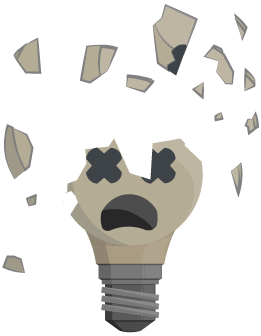
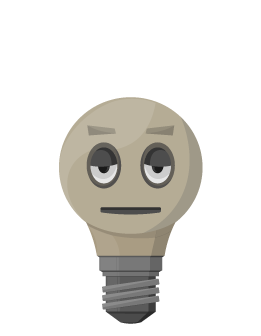
rename lamps

diff --git a/core/src/com/pocket/rocket/broken/AssetLoader.java b/core/src/com/pocket/rocket/broken/AssetLoader.java
@@ -28,9 +28,9 @@ public class AssetLoader implements Disposable {
     public static final int LAMPS_PREFIX_2 = 2;
     public static final int LAMPS_PREFIX_3 = 3;
 
-    private static final String TURN_ON = "lamps/%s/turn_on.png";
-    private static final String TURN_OFF = "lamps/%s/turn_off.png";
+    private static final String ANGRY = "lamps/%s/angry.png";
     private static final String NEUTRAL = "lamps/%s/neutral.png";
+    private static final String ACTIVE = "lamps/%s/active.png";
 
     private static final String FONT = "font.fnt";
     private static final String BUTTON_UP = "button_up.png";
@@ -81,7 +81,7 @@ public class AssetLoader implements Disposable {
         background = backgrounds.get(MathUtils.random(0, backgrounds.size() - 1));
         assetManager.load(background, Texture.class);
 
-        assetManager.load(getLampPath(LAMPS_PREFIX_0, TURN_ON), Texture.class);
+        assetManager.load(getLampPath(LAMPS_PREFIX_0, ACTIVE), Texture.class);
         loadLamps(LAMPS_PREFIX_1);
         loadLamps(LAMPS_PREFIX_2);
         loadLamps(LAMPS_PREFIX_3);
@@ -134,9 +134,9 @@ public class AssetLoader implements Disposable {
     }
 
     private static void loadLamps(int prefix) {
-        assetManager.load(getLampPath(prefix, TURN_ON), Texture.class);
-        assetManager.load(getLampPath(prefix, TURN_OFF), Texture.class);
+        assetManager.load(getLampPath(prefix, ANGRY), Texture.class);
         assetManager.load(getLampPath(prefix, NEUTRAL), Texture.class);
+        assetManager.load(getLampPath(prefix, ACTIVE), Texture.class);
     }
 
     private static String getLampPath(int prefix, String fileName) {
@@ -188,19 +188,19 @@ public class AssetLoader implements Disposable {
     }
 
     public static Texture getLampImage(int prefix) {
-        return assetManager.get(getLampPath(prefix, TURN_ON));
+        return assetManager.get(getLampPath(prefix, ANGRY));
     }
 
     public static Texture getLampImage(LightBulbStatus status) {
         switch (status) {
-            case TURN_ON:
-                return turnOn();
-            case TURN_OFF:
-                return turnOff();
+            case ANGRY:
+                return angry();
             case NEUTRAL:
                 return neutral();
+            case ACTIVE:
+                return active();
             default:
-                return turnOff();
+                return neutral();
         }
     }
 
@@ -212,16 +212,16 @@ public class AssetLoader implements Disposable {
         defaultPrefix = prefix == LAMPS_PREFIX_0 ? LAMPS_PREFIX_1 : prefix;
     }
 
-    private static Texture turnOn() {
-        return assetManager.get(getLampPath(defaultPrefix, TURN_ON));
-    }
-
-    private static Texture turnOff() {
-        return assetManager.get(getLampPath(defaultPrefix, TURN_OFF));
+    private static Texture angry() {
+        return assetManager.get(getLampPath(defaultPrefix, ANGRY));
     }
 
     private static Texture neutral() {
         return assetManager.get(getLampPath(defaultPrefix, NEUTRAL));
+    }
+
+    private static Texture active() {
+        return assetManager.get(getLampPath(defaultPrefix, ACTIVE));
     }
 
     public static Texture getLogoLabel() {

diff --git a/core/src/com/pocket/rocket/broken/actors/LightBulb.java b/core/src/com/pocket/rocket/broken/actors/LightBulb.java
@@ -8,12 +8,12 @@ import static com.badlogic.gdx.math.MathUtils.random;
 import static com.pocket.rocket.broken.AssetLoader.getLampImage;
 import static com.pocket.rocket.broken.Constants.LAMP_HEIGHT;
 import static com.pocket.rocket.broken.Constants.LAMP_WIDTH;
+import static com.pocket.rocket.broken.enums.LightBulbStatus.ACTIVE;
+import static com.pocket.rocket.broken.enums.LightBulbStatus.ANGRY;
 import static com.pocket.rocket.broken.enums.LightBulbStatus.NEUTRAL;
-import static com.pocket.rocket.broken.enums.LightBulbStatus.TURN_OFF;
-import static com.pocket.rocket.broken.enums.LightBulbStatus.TURN_ON;
 
 public class LightBulb extends ImageActor {
-    private static final LightBulbStatus DEFAULT_STATUS = TURN_OFF;
+    private static final LightBulbStatus DEFAULT_STATUS = NEUTRAL;
 
     private LightBulbStatus status = DEFAULT_STATUS;
     private float activationTime = 0;
@@ -25,8 +25,8 @@ public class LightBulb extends ImageActor {
     }
 
     public boolean justClicked(LampLogic time) {
-        if (status == TURN_ON) {
-            setStatus(NEUTRAL);
+        if (status == ANGRY) {
+            setStatus(ACTIVE);
             activationTime = random(time.maxNeutralTime, time.minNeutralTime);
             turnOffTime = getTurnOffTime(time);
 
@@ -38,10 +38,10 @@ public class LightBulb extends ImageActor {
 
     @Override
     public void act(float delta) {
-        if (activationTime > 0 && (status == TURN_ON || status == NEUTRAL)) {
+        if (activationTime > 0 && (status == ANGRY || status == ACTIVE)) {
 
             if (activationTime <= second) {
-                setStatus(TURN_OFF);
+                setStatus(NEUTRAL);
                 second = 0;
                 activationTime = 0;
             } else {
@@ -51,7 +51,7 @@ public class LightBulb extends ImageActor {
             activationTime = 0;
         }
 
-        if (turnOffTime > 0 && status == TURN_OFF) {
+        if (turnOffTime > 0 && status == NEUTRAL) {
             turnOffTime -= delta;
         }
 
@@ -64,11 +64,11 @@ public class LightBulb extends ImageActor {
     }
 
     public boolean canBeActive() {
-        return status == TURN_OFF && turnOffTime <= 0;
+        return status == NEUTRAL && turnOffTime <= 0;
     }
 
     public void activate(LampLogic time) {
-        setStatus(TURN_ON);
+        setStatus(ANGRY);
         activationTime = random(time.minActiveTime, time.maxActiveTime);
         turnOffTime = getTurnOffTime(time);
     }

diff --git a/core/src/com/pocket/rocket/broken/screens/tutorial/TutorialScreen.java b/core/src/com/pocket/rocket/broken/screens/tutorial/TutorialScreen.java
@@ -23,8 +23,8 @@ import static com.pocket.rocket.broken.Constants.Y_LAMP_POSITION;
 import static com.pocket.rocket.broken.enums.LightBulbPosition.CENTER;
 import static com.pocket.rocket.broken.enums.LightBulbPosition.LEFT;
 import static com.pocket.rocket.broken.enums.LightBulbPosition.RIGHT;
-import static com.pocket.rocket.broken.enums.LightBulbStatus.TURN_OFF;
-import static com.pocket.rocket.broken.enums.LightBulbStatus.TURN_ON;
+import static com.pocket.rocket.broken.enums.LightBulbStatus.ANGRY;
+import static com.pocket.rocket.broken.enums.LightBulbStatus.NEUTRAL;
 import static java.lang.Integer.MAX_VALUE;
 
 public class TutorialScreen extends BaseScreen {
@@ -65,13 +65,13 @@ public class TutorialScreen extends BaseScreen {
     private Group createLamps() {
         Group lightBulbs = new Group();
 
-        lightBulbs.addActor(initializeLight(LEFT, Y_LAMP_POSITION + 300, TURN_OFF));
-        lightBulbs.addActor(initializeLight(CENTER, Y_LAMP_POSITION + 300, TURN_ON));
-        lightBulbs.addActor(initializeLight(RIGHT, Y_LAMP_POSITION + 300, TURN_OFF));
+        lightBulbs.addActor(initializeLight(LEFT, Y_LAMP_POSITION + 300, NEUTRAL));
+        lightBulbs.addActor(initializeLight(CENTER, Y_LAMP_POSITION + 300, ANGRY));
+        lightBulbs.addActor(initializeLight(RIGHT, Y_LAMP_POSITION + 300, NEUTRAL));
 
-        lightBulbs.addActor(initializeLight(LEFT, Y_LAMP_POSITION + LAMP_HEIGHT + 270, TURN_ON));
-        lightBulbs.addActor(initializeLight(CENTER, Y_LAMP_POSITION + LAMP_HEIGHT + 270, TURN_OFF));
-        lightBulbs.addActor(initializeLight(RIGHT, Y_LAMP_POSITION + LAMP_HEIGHT + 270, TURN_ON));
+        lightBulbs.addActor(initializeLight(LEFT, Y_LAMP_POSITION + LAMP_HEIGHT + 270, ANGRY));
+        lightBulbs.addActor(initializeLight(CENTER, Y_LAMP_POSITION + LAMP_HEIGHT + 270, NEUTRAL));
+        lightBulbs.addActor(initializeLight(RIGHT, Y_LAMP_POSITION + LAMP_HEIGHT + 270, ANGRY));
 
         return lightBulbs;
     }

diff --git a/core/src/com/pocket/rocket/broken/screens/tutorial/TutorialLamp.java b/core/src/com/pocket/rocket/broken/screens/tutorial/TutorialLamp.java
@@ -5,8 +5,8 @@ import com.pocket.rocket.broken.enums.LampLogic;
 import com.pocket.rocket.broken.enums.LightBulbPosition;
 import com.pocket.rocket.broken.enums.LightBulbStatus;
 
-import static com.pocket.rocket.broken.enums.LightBulbStatus.NEUTRAL;
-import static com.pocket.rocket.broken.enums.LightBulbStatus.TURN_ON;
+import static com.pocket.rocket.broken.enums.LightBulbStatus.ACTIVE;
+import static com.pocket.rocket.broken.enums.LightBulbStatus.ANGRY;
 
 public class TutorialLamp extends LightBulb {
     private LightBulbStatus currentStatus;
@@ -22,10 +22,10 @@ public class TutorialLamp extends LightBulb {
         setImage(com.pocket.rocket.broken.AssetLoader.getLampImage(status));
         currentStatus = status;
 
-        if (currentStatus == LightBulbStatus.TURN_ON || currentStatus == LightBulbStatus.NEUTRAL) {
-            previousStatus = LightBulbStatus.TURN_OFF;
+        if (currentStatus == LightBulbStatus.ANGRY || currentStatus == LightBulbStatus.ACTIVE) {
+            previousStatus = LightBulbStatus.NEUTRAL;
         } else {
-            previousStatus = LightBulbStatus.TURN_ON;
+            previousStatus = LightBulbStatus.ANGRY;
         }
     }
 
@@ -43,8 +43,8 @@ public class TutorialLamp extends LightBulb {
 
     @Override
     public boolean justClicked(LampLogic time) {
-        if (currentStatus == TURN_ON) {
-            setStatus(NEUTRAL);
+        if (currentStatus == ANGRY) {
+            setStatus(ACTIVE);
             if (clickAction != null) {
                 clickAction.run();
             }

diff --git a/core/src/com/pocket/rocket/broken/screens/tutorial/steps/StepManager.java b/core/src/com/pocket/rocket/broken/screens/tutorial/steps/StepManager.java
@@ -38,7 +38,7 @@ public class StepManager {
 
     private void activateLamp() {
         for (TutorialLamp lamp : lamps) {
-            if (lamp.getCurrentStatus() == LightBulbStatus.TURN_ON) {
+            if (lamp.getCurrentStatus() == LightBulbStatus.ANGRY) {
                 return;
             }
         }
@@ -48,7 +48,7 @@ public class StepManager {
 
     private void manageLamps() {
         for (final TutorialLamp lamp : lamps) {
-            if (lamp.getCurrentStatus() == LightBulbStatus.NEUTRAL) {
+            if (lamp.getCurrentStatus() == LightBulbStatus.ACTIVE) {
                 Timer.schedule(new Timer.Task() {
                                    @Override
                                    public void run() {

diff --git a/core/src/com/pocket/rocket/broken/Main.java b/core/src/com/pocket/rocket/broken/Main.java
@@ -2,7 +2,7 @@ package com.pocket.rocket.broken;
 
 import com.badlogic.gdx.Game;
 import com.pocket.rocket.broken.api.PlayServices;
-import com.pocket.rocket.broken.screens.GameScreen;
+import com.pocket.rocket.broken.screens.SplashScreen;
 
 public class Main extends Game {
     private final PlayServices playServices;
@@ -14,9 +14,9 @@ public class Main extends Game {
 
     @Override
     public void create() {
-        //setScreen(new SplashScreen(this));
-        AssetLoader.initialize();
-        setScreen(new GameScreen(this));
+        setScreen(new SplashScreen(this));
+        //AssetLoader.initialize();
+        //setScreen(new GameScreen(this));
     }
 
     @Override

diff --git a/core/src/com/pocket/rocket/broken/screens/BaseScreen.java b/core/src/com/pocket/rocket/broken/screens/BaseScreen.java
@@ -19,7 +19,7 @@ public class BaseScreen extends Stage implements Screen {
         super(new FitViewport(WIDTH, HEIGHT));
         this.main = main;
         addActor(new ImageActor(0, 0, WIDTH, HEIGHT, getBackGround()));
-        setDebugAll(true);
+        //setDebugAll(true);
         Gdx.input.setInputProcessor(this);
     }
 

diff --git a/core/src/com/pocket/rocket/broken/enums/LightBulbStatus.java b/core/src/com/pocket/rocket/broken/enums/LightBulbStatus.java
@@ -1,7 +1,7 @@
 package com.pocket.rocket.broken.enums;
 
 public enum LightBulbStatus {
-    TURN_ON,
-    TURN_OFF,
-    NEUTRAL
+    ANGRY,
+    NEUTRAL,
+    ACTIVE
 }
